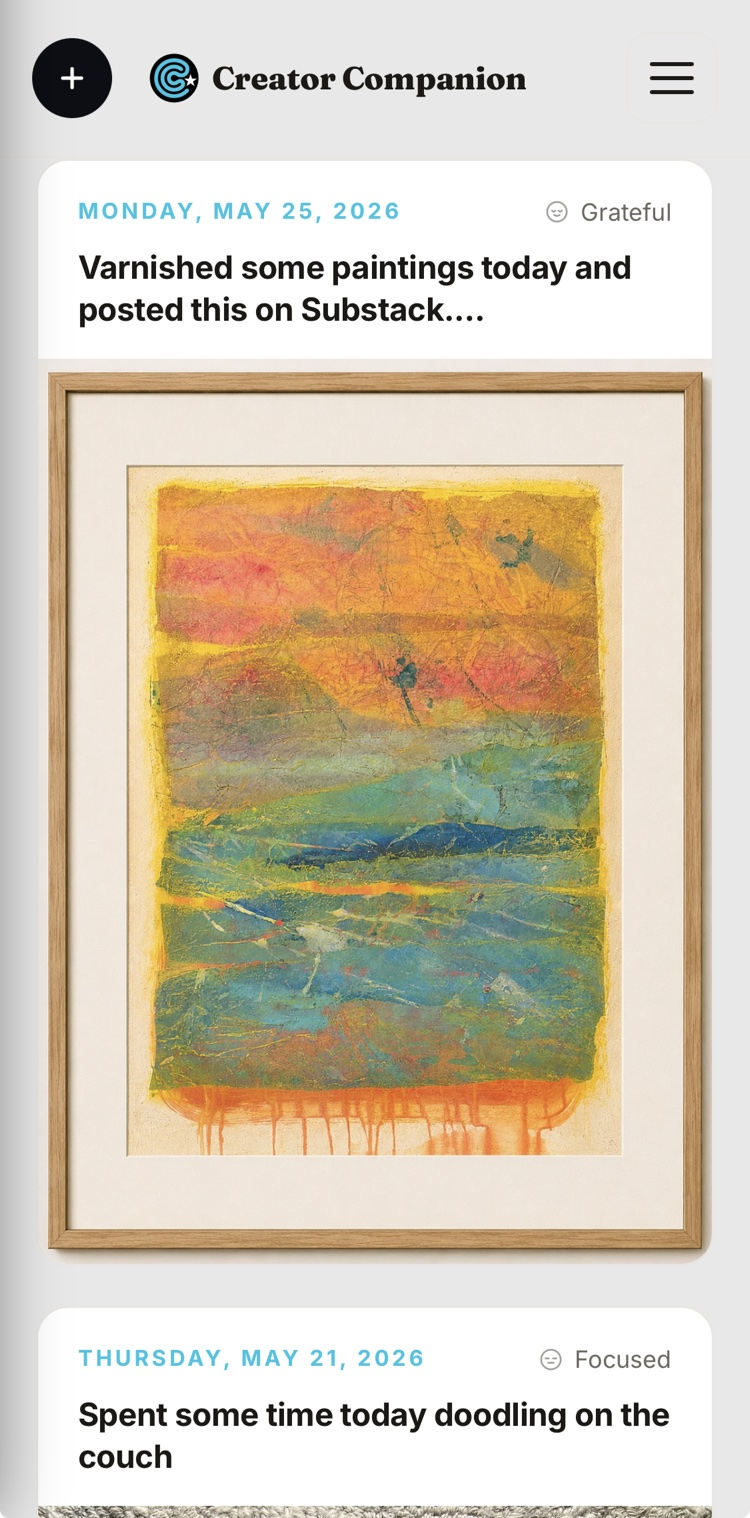
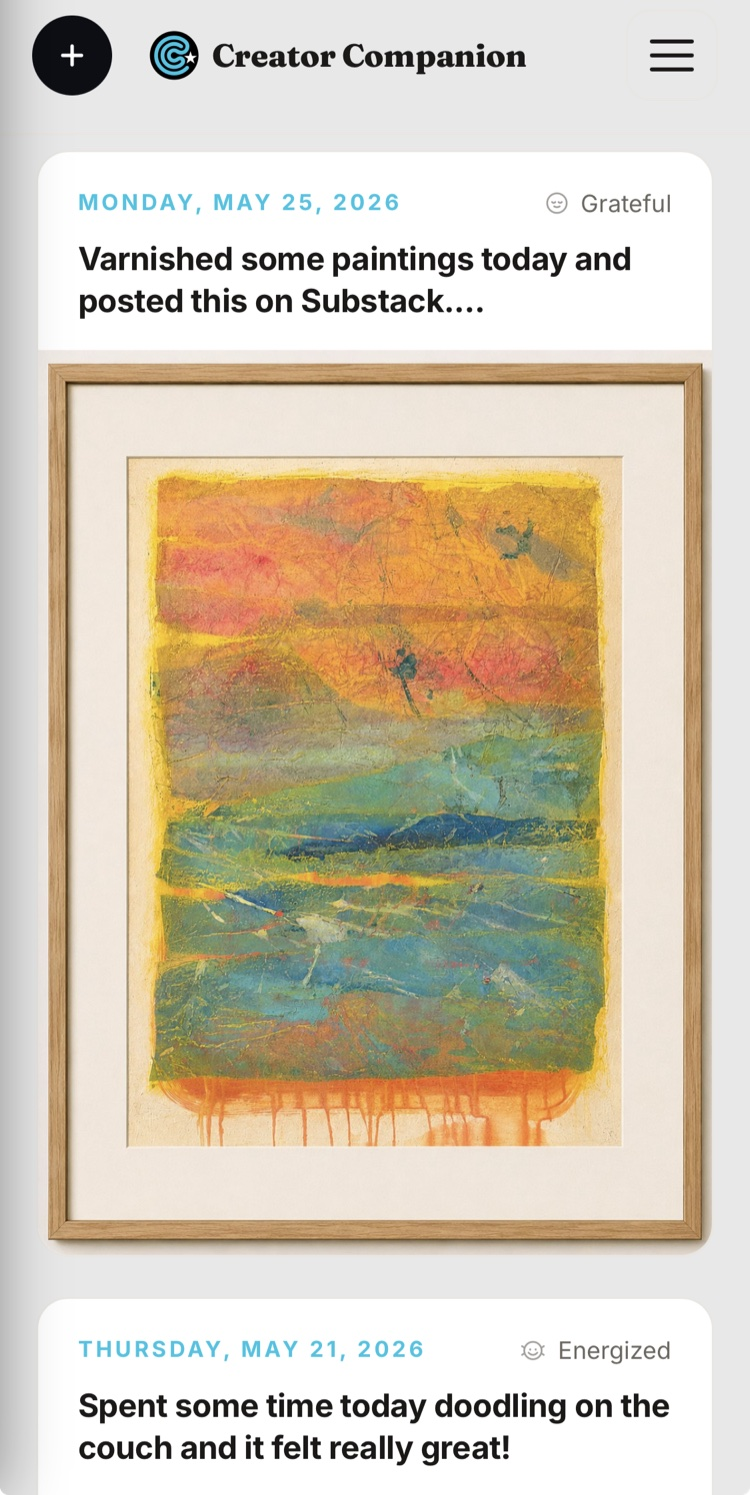
Marketing preview: blend notch-side gutters into the app grey
Two fixes: (1) swap the Section 1 mockup image to the new screenshot
(re-encoded to a 288 KB 750 px JPEG), and (2) use :has() to propagate
the screen-img grey up to the .mock-phone parent — so the strips of
phone-frame fill on either side of the notch turn grey too. Before,
those gutters were still #111318 (dark) which is what was showing up
as a "black band above the image". The 8px bezel border + dark notch
stay as-is, preserving the phone look.

diff --git a/marketing/styles.css b/marketing/styles.css
@@ -525,7 +525,13 @@ a:hover { text-decoration: underline; }
 }
 /* Variant: full-bleed image fills the screen (no .mapp-* children).
    Background matches the app's body grey so any gap above/below
-   the image blends with the screenshot's own background. */
+   the image blends with the screenshot's own background. The
+   :has() rule below propagates the grey up to the .mock-phone
+   parent so the gutters around the notch are grey too (otherwise
+   the dark phone-frame fill shows through next to the notch). */
+.mock-phone:has(.mock-phone__screen--img) {
+  background: #e8e9eb;
+}
 .mock-phone__screen--img {
   background: #e8e9eb;
   min-height: 0;